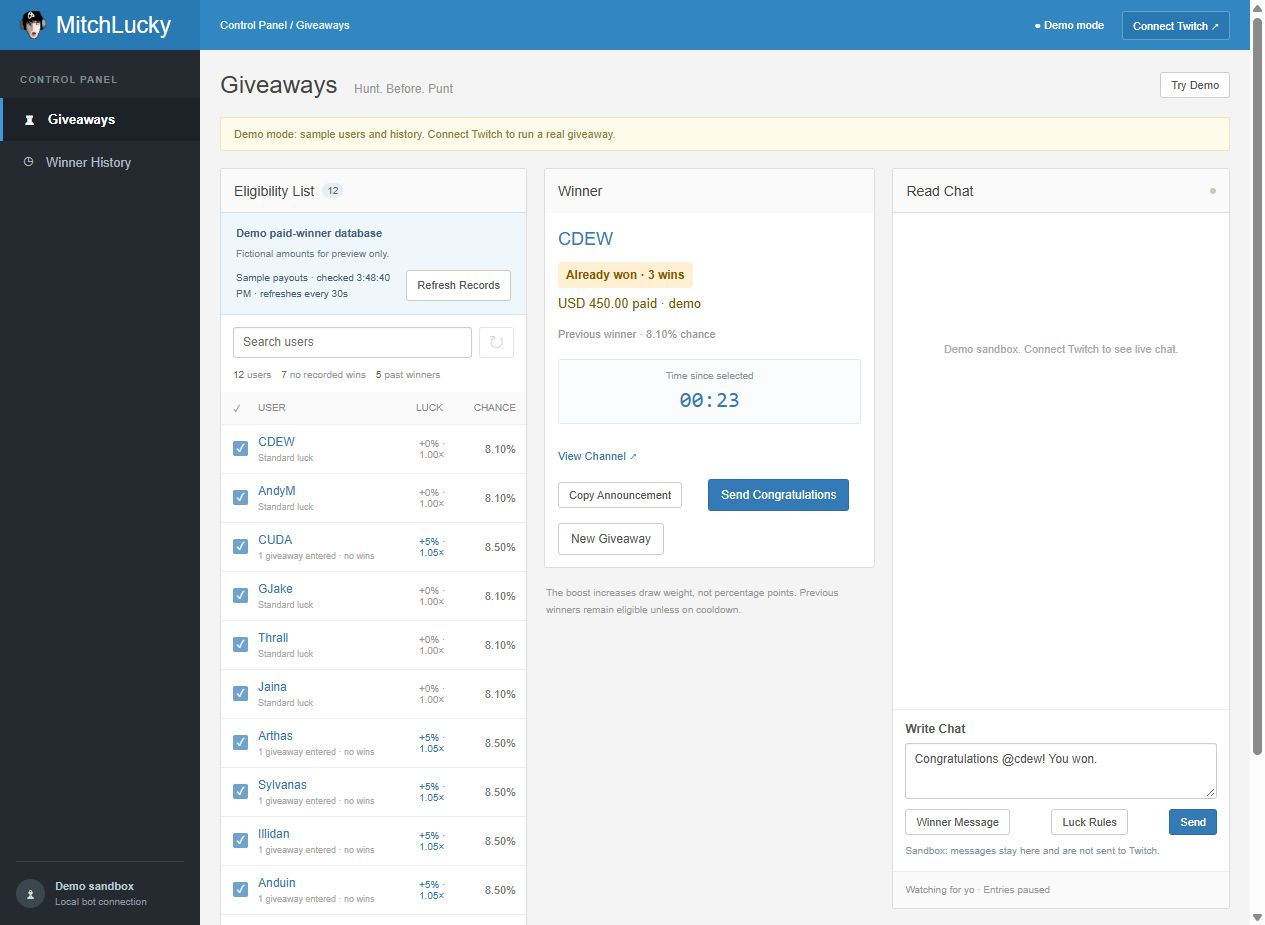
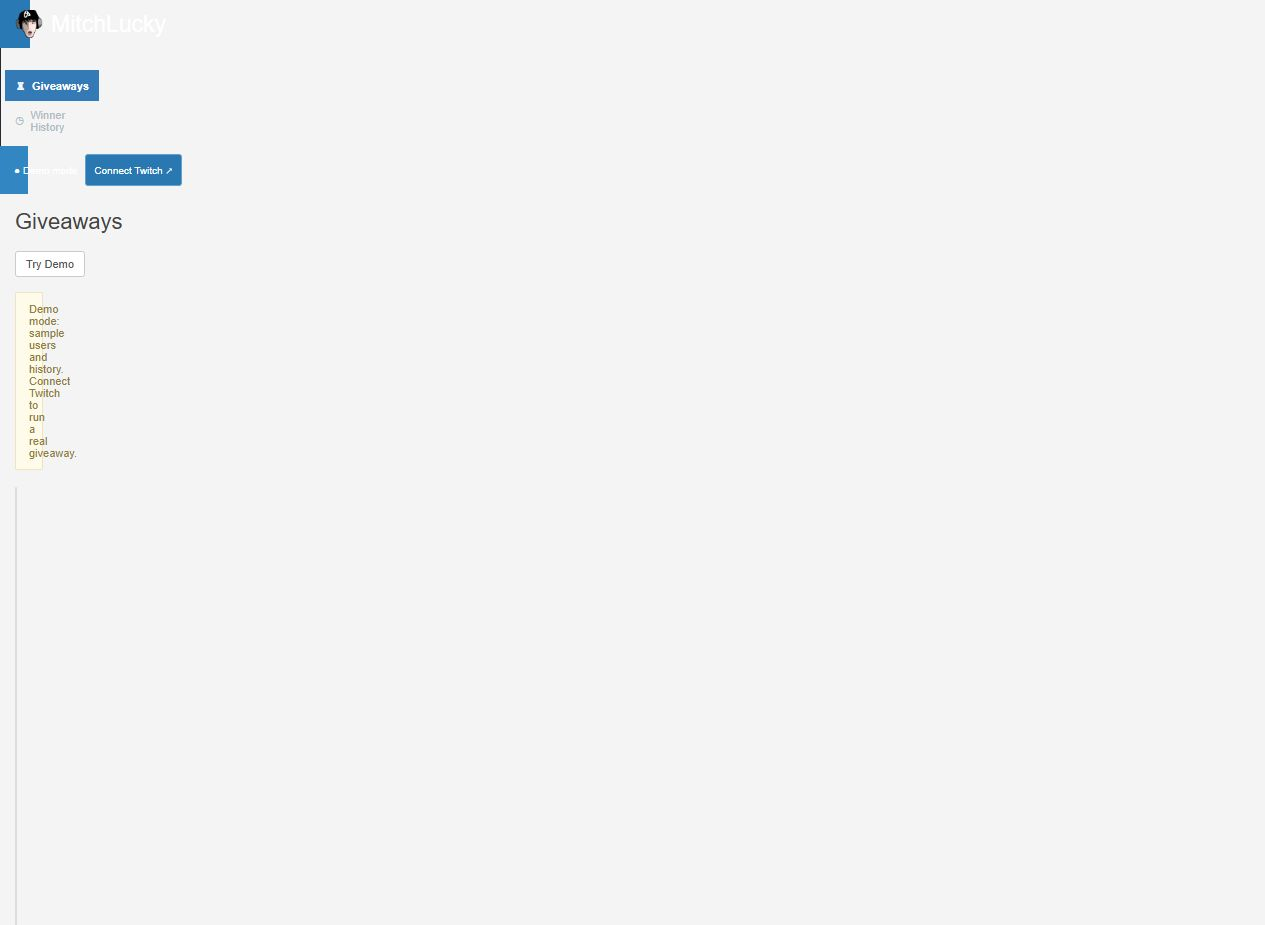
Keep only New Giveaway on the selected winner card

diff --git a/public/index.html b/public/index.html
@@ -7,7 +7,7 @@
 <div class="dashboard-grid">
 <section class="card entrants-card"><div class="card-header"><h2>Eligibility List <span id="entry-count" class="count">0</span></h2></div><div id="payout-source" class="payout-source" hidden><strong>Demo paid-winner database</strong><p>Fictional amounts for preview only.</p><div class="payout-source-actions"><span id="payout-status" role="status"></span><button id="payout-refresh" class="button secondary small" type="button">Refresh Records</button></div></div><div class="eligibility-toolbar"><input id="search" placeholder="Search users" aria-label="Search viewers" class="search"></div><div class="pool-summary"><span><strong id="stat-total">0</strong> users</span><span><strong id="stat-new">0</strong> no recorded wins</span><span><strong id="stat-returning">0</strong> past winners</span><span id="stat-new-caption" hidden></span></div><div class="table-scroll"><table><thead><tr><th aria-label="Eligible">✓</th><th>USER</th><th>LUCK</th><th>CHANCE</th></tr></thead><tbody id="entrants"></tbody></table></div><div id="empty" class="empty"><strong>No eligible users</strong><p>Open entries to start collecting viewers.</p></div><div id="pool-footer" class="card-footer">One entry per user.</div></section>
 <div class="giveaway-column"><section class="card giveaway-card"><div class="card-header"><h2>Giveaway</h2><span id="round-status" class="pill">Ready to start</span></div><form id="settings"><label class="giveaway-name">Giveaway Name<input id="title" maxlength="100" value="Community giveaway" required></label><div class="keyword-row"><label>Keyword<input id="keyword" maxlength="30" value="yo" required></label><p>Type yo, YO, or Yo to enter. Matching ignores capitalization.</p></div><div class="luck-panel"><h3>Extra Luck</h3><div class="luck-heading"><div><strong>First-win luck cap</strong><p>+5% per giveaway entered until their first win.</p></div><span id="boost-badge" class="boost-badge">+25%</span></div><div class="range-row"><input id="boost" type="range" min="0" max="50" step="5" value="25" aria-label="First-win luck cap"><span id="boost-value">1.25×</span></div><div class="range-labels"><span>1×</span><span>1.5×</span></div><p id="luck-status" class="luck-status" role="status">Adjust anytime — luck applies automatically.</p><p class="tracking-note">Entries and wins are remembered across giveaways and restarts. Reopening entries adds no bonus.</p><p class="explanation" id="weight-explanation">Never-winners earn +5% draw weight per giveaway entered, capped at +25%.</p></div><details class="cooldown-options"><summary>Optional winner cooldown</summary><div class="cooldown-row"><div><strong>Winner Cooldown</strong><small>Exclude anyone who won within</small></div><select id="cooldownMinutes" aria-label="Winner cooldown time frame"><option value="0">Disabled</option><option value="15">15 minutes</option><option value="30">30 minutes</option><option value="60">1 hour</option><option value="360">6 hours</option><option value="1440">24 hours</option><option value="4320">3 days</option><option value="10080">7 days</option><option value="43200">30 days</option></select></div></details><div class="giveaway-actions"><button type="submit" id="save-settings" class="button secondary">Save</button><button type="button" id="open" class="button primary">Open Entries</button><button type="button" id="close" class="button secondary" hidden>Close Entries</button><button type="button" id="draw" class="button primary" hidden>Roll It!</button><button type="button" id="new" class="button secondary" hidden>New Giveaway</button></div></form><div class="card-footer">One increase per giveaway entered. Repeated messages add no luck. Viewers: type !luck in chat (Read + Write required).</div></section>
-<section class="card winner-card"><div class="card-header"><h2>Winner</h2></div><div id="winner" class="winner-body"><p>No winner selected.</p></div><button id="copy-winner" class="button secondary small" hidden>Copy Announcement</button></section><p class="fair-note">The boost increases draw weight, not percentage points. Previous winners remain eligible unless on cooldown.</p></div>
+<section class="card winner-card"><div class="card-header"><h2>Winner</h2></div><div id="winner" class="winner-body"><p>No winner selected.</p></div></section><p class="fair-note">The boost increases draw weight, not percentage points. Previous winners remain eligible unless on cooldown.</p></div>
 <section class="card chat-card"><div class="card-header"><h2>Read Chat</h2><span id="chat-dot" class="chat-dot"></span></div><div id="chat" class="chat-feed"><div class="chat-empty">Connect your Twitch channel to view chat.</div></div><form id="chat-send-form" class="chat-composer"><label for="chat-message">Write Chat</label><textarea id="chat-message" rows="2" maxlength="450" aria-label="Write chat message">Congratulations! You won.</textarea><div class="chat-compose-actions"><button type="button" id="use-winner-message" class="button secondary small" disabled>Winner Message</button><button type="button" id="use-luck-rules" class="button secondary small">Luck Rules</button><button id="send-chat" type="submit" class="button primary small" disabled>Send</button></div><p id="write-status" class="help">Connect with Read + Write Chat to send.</p></form><div class="card-footer" id="chat-footer">Watching for yo</div></section>
 </div>
 <section id="history" class="card history-card" hidden><div class="card-header"><h2>Winner History <span id="history-count" class="count">0</span></h2><button id="export" class="button secondary small">Export History</button></div><div class="table-scroll"><table><thead><tr><th>WINNER</th><th>GIVEAWAY</th><th>WHEN</th><th>RESULT</th></tr></thead><tbody id="history-rows"></tbody></table></div><div id="history-empty" class="empty compact">No winners yet. Every draw saves its winner automatically.</div></section>

diff --git a/public/app.js b/public/app.js
@@ -84,10 +84,8 @@ function render(next) {
   $('chat').innerHTML = state.chat.length ? state.chat.slice(-20).map(c => `<div class="chat-line"><strong>${escapeHtml(c.displayName)}</strong> ${escapeHtml(c.text)}${c.entered ? '<span class="entry-tag">ENTERED</span>' : ''}</div>`).join('') : `<div class="chat-empty">${demo ? 'Demo sandbox. Connect Twitch to see live chat.' : escapeHtml(connection.message)}</div>`;
   $('chat').scrollTop = $('chat').scrollHeight;
   $('winner').className = `winner-body ${round.winner ? 'selected' : ''}`;
-  $('winner').innerHTML = round.winner ? `<h3>${escapeHtml(round.winner.displayName)}</h3>${demo ? (paidWinnerTag(state.payouts.selectedWinner) || '<p class="paid-winner-empty">No previous paid wins in demo records.</p>') : ''}<p>${round.winner.firstWin ? 'First recorded win' : 'Previous winner'} · ${pct(round.winner.odds)} chance</p><div class="winner-timers"><div><small>Time since selected</small><output id="winner-elapsed" role="timer" aria-live="off">00:00</output></div></div><a class="winner-channel" href="https://www.twitch.tv/${encodeURIComponent(round.winner.login)}" target="_blank" rel="noopener noreferrer">View Channel ↗</a>` : '<p>Click <strong>Roll It!</strong> while entries are open to select a winner.</p>';
+  $('winner').innerHTML = round.winner ? `<h3>${escapeHtml(round.winner.displayName)}</h3>${demo ? (paidWinnerTag(state.payouts.selectedWinner) || '<p class="paid-winner-empty">No previous paid wins in demo records.</p>') : ''}<p>${round.winner.firstWin ? 'First recorded win' : 'Previous winner'} · ${pct(round.winner.odds)} chance</p><div class="winner-timers"><div><small>Time since selected</small><output id="winner-elapsed" role="timer" aria-live="off">00:00</output></div></div>` : '<p>Click <strong>Roll It!</strong> while entries are open to select a winner.</p>';
   updateWinnerTimers();
-  $('copy-winner').hidden = !round.winner;
-  if ($('announce-winner')) $('announce-winner').hidden = !round.winner || !state.canSend;
   if ($('reset-eligibility')) $('reset-eligibility').disabled = !['open', 'closed'].includes(round.status);
   $('history-count').textContent = history.length;
   $('history-empty').hidden = history.length > 0;
@@ -137,7 +135,6 @@ $('connect-open').onclick = () => { $('channel').value = state?.demo ? '' : stat
 $('chat-access').onchange = () => { $('token-details').open = $('chat-access').value === 'write'; };
 document.querySelectorAll('.dismiss').forEach(button => button.onclick = () => button.closest('dialog').close());
 $('connect-form').onsubmit = async event => { event.preventDefault(); if (state?.round.entrants.length && $('channel').value.toLowerCase() !== state.channel && !confirm('Switch channels and clear the current entry pool? Winner history is preserved.')) return; if (await api('connect', { channel: $('channel').value, token: $('token').value.trim(), writeEnabled: $('chat-access').value === 'write' })) { $('token').value = ''; $('connect-dialog').close(); } };
-$('copy-winner').onclick = async () => { try { await navigator.clipboard.writeText(announcement(state.round.winner)); toast('Winner announcement copied. Paste it into Twitch chat.'); } catch { toast('Clipboard unavailable. Winner: ' + state.round.winner.login); } };
 $('chat-message').oninput = () => { draftEdited = true; };
 $('use-winner-message').onclick = () => { $('chat-message').value = announcement(state.round.winner); draftEdited = false; };
 $('use-luck-rules').onclick = () => {

diff --git a/public/giveaway-ui.js b/public/giveaway-ui.js
@@ -9,8 +9,6 @@ $('search').insertAdjacentHTML('afterend', '<button id="reset-eligibility" class
 $('reset-eligibility').onclick = () => {
   if (confirm('Make every viewer in this pool ineligible? You can include them again with their checkboxes.')) api('reset-eligibility');
 };
-$('copy-winner').insertAdjacentHTML('afterend', '<button id="announce-winner" class="button primary" hidden>Send Congratulations</button>');
-$('announce-winner').onclick = async () => { if (await api('announce')) toast(state.demo ? 'Demo congratulations added locally.' : 'Winner announcement sent to Twitch.'); };
 function routeGiveaway() {
   const isHistory = location.hash === '#history';
   document.querySelector('.breadcrumb').textContent = `Control Panel / ${isHistory ? 'Winner History' : 'Giveaways'}`;

diff --git a/README.md b/README.md
@@ -108,9 +108,9 @@ Draws use Node's cryptographically secure random generator. Participation progre
 
 Tokens are validated with Twitch, kept in server memory, and never saved. Anonymous read-only IRC is supported but may be restricted by Twitch. Authenticated live Twitch behavior still needs verification with your user token.
 
-**Write Chat** sends editable messages as your authenticated Twitch account. **Winner Message** fills `Congratulations @winner! You won.`; **Send Congratulations** sends it directly. **Luck Rules** prepares an explanation to review and send. With writing enabled, viewers can type `!luck` to check their participation, weight bonus, and current odds without entering the giveaway. Replies share the chat send rate limit; rapid requests may not all receive replies. `!luck` is reserved for this command.
+**Write Chat** sends editable messages as your authenticated Twitch account. **Winner Message** fills `Congratulations @winner! You won.`; press **Send** in the chat composer to post it. **Luck Rules** prepares an explanation to review and send. With writing enabled, viewers can type `!luck` to check their participation, weight bonus, and current odds without entering the giveaway. Replies share the chat send rate limit; rapid requests may not all receive replies. `!luck` is reserved for this command.
 
-The timer starts when a winner is selected, continues across reloads and restarts, and never resets because someone speaks. There is no automatic timeout or reroll. A completed draw cannot be rolled again.
+The timer starts when a winner is selected, continues across reloads and restarts, and never resets because someone speaks. There is no automatic timeout or reroll. A completed draw cannot be rolled again. Once a winner is shown, **New Giveaway** is the only control on the winner card.
 
 ## Real paid-winners database: next integration
 
